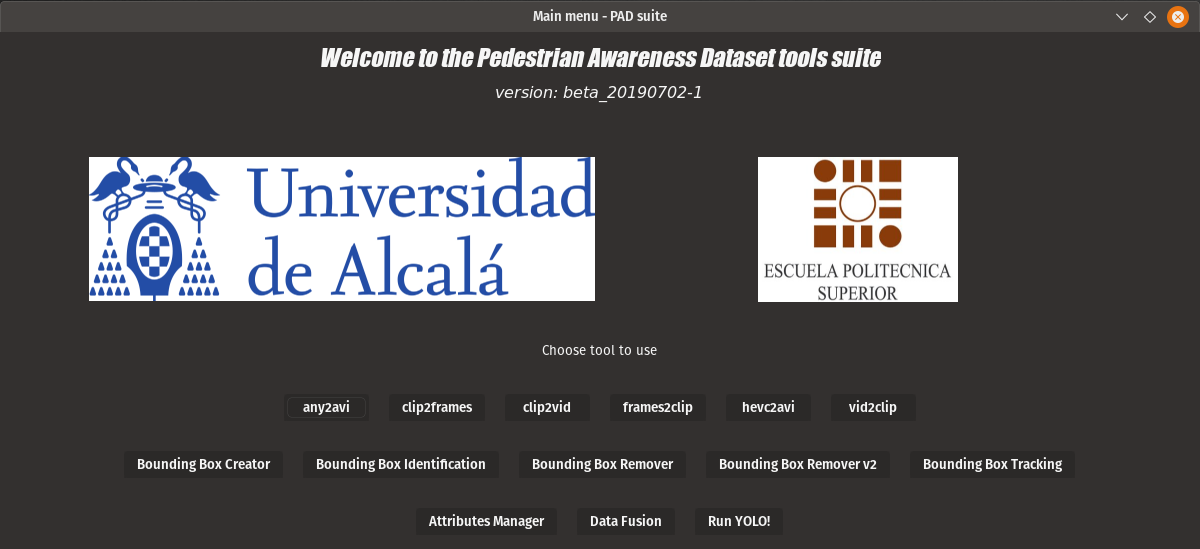
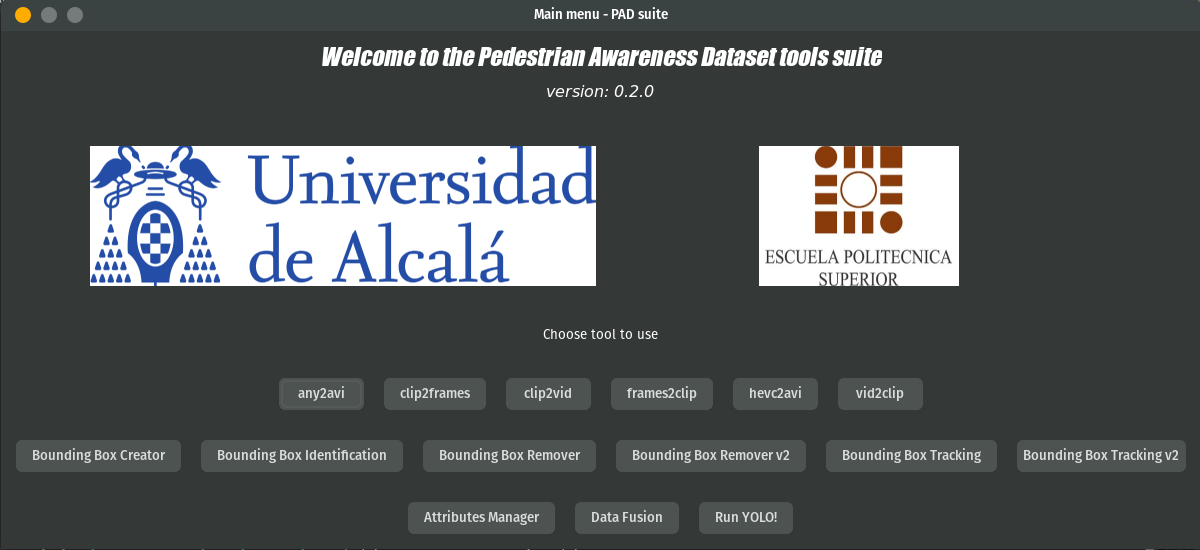
Updated README.md

diff --git a/README.md b/README.md
@@ -41,7 +41,7 @@ I strongly recommend using virtual environments to run it. I used Pipenv to mana
 The suite is developed under Pop!\_OS (Ubuntu 18.04) in Python 3.6, but should work just fine in any other operative system.
 - Codecs and formats support (for example ubuntu-restricted-extras, ffmpeg, libgstreamer, libgtk,...).
 - Numpy: https://www.numpy.org
-- OpenCV-Python: https://opencv-python-tutroals.readthedocs.io/en/latest/
+- OpenCV-contrib-Python: https://opencv-python-tutroals.readthedocs.io/en/latest/
 - Munkres: https://pypi.org/project/munkres/
 - screeninfo: https://pypi.org/project/screeninfo/
 - wxPython: https://github.com/wxWidgets/Phoenix (this one should be in the Pipfile, but I had problems installing it from PyPi...)
@@ -63,6 +63,8 @@ The suite is developed under Pop!\_OS (Ubuntu 18.04) in Python 3.6, but should w
 	- v1: automatically remove a series of subjects from a series of frames
 	- v2: remove the bounding boxes using a graphical interface
 - **Bounding Box Tracking**: tracks subjects across a series of frames
+	- v1: tracking using Kuhn-Munkres algorithm
+	- v2: tracking using OpenCV trackers
 - **Attributes Manager**: set attributes for the pedestrians in a scene
 - **Data Fusion**: combine behavioral information with bounding boxes and subject identifiers in a single video
 - **Run YOLO!**: use YOLO detection application
